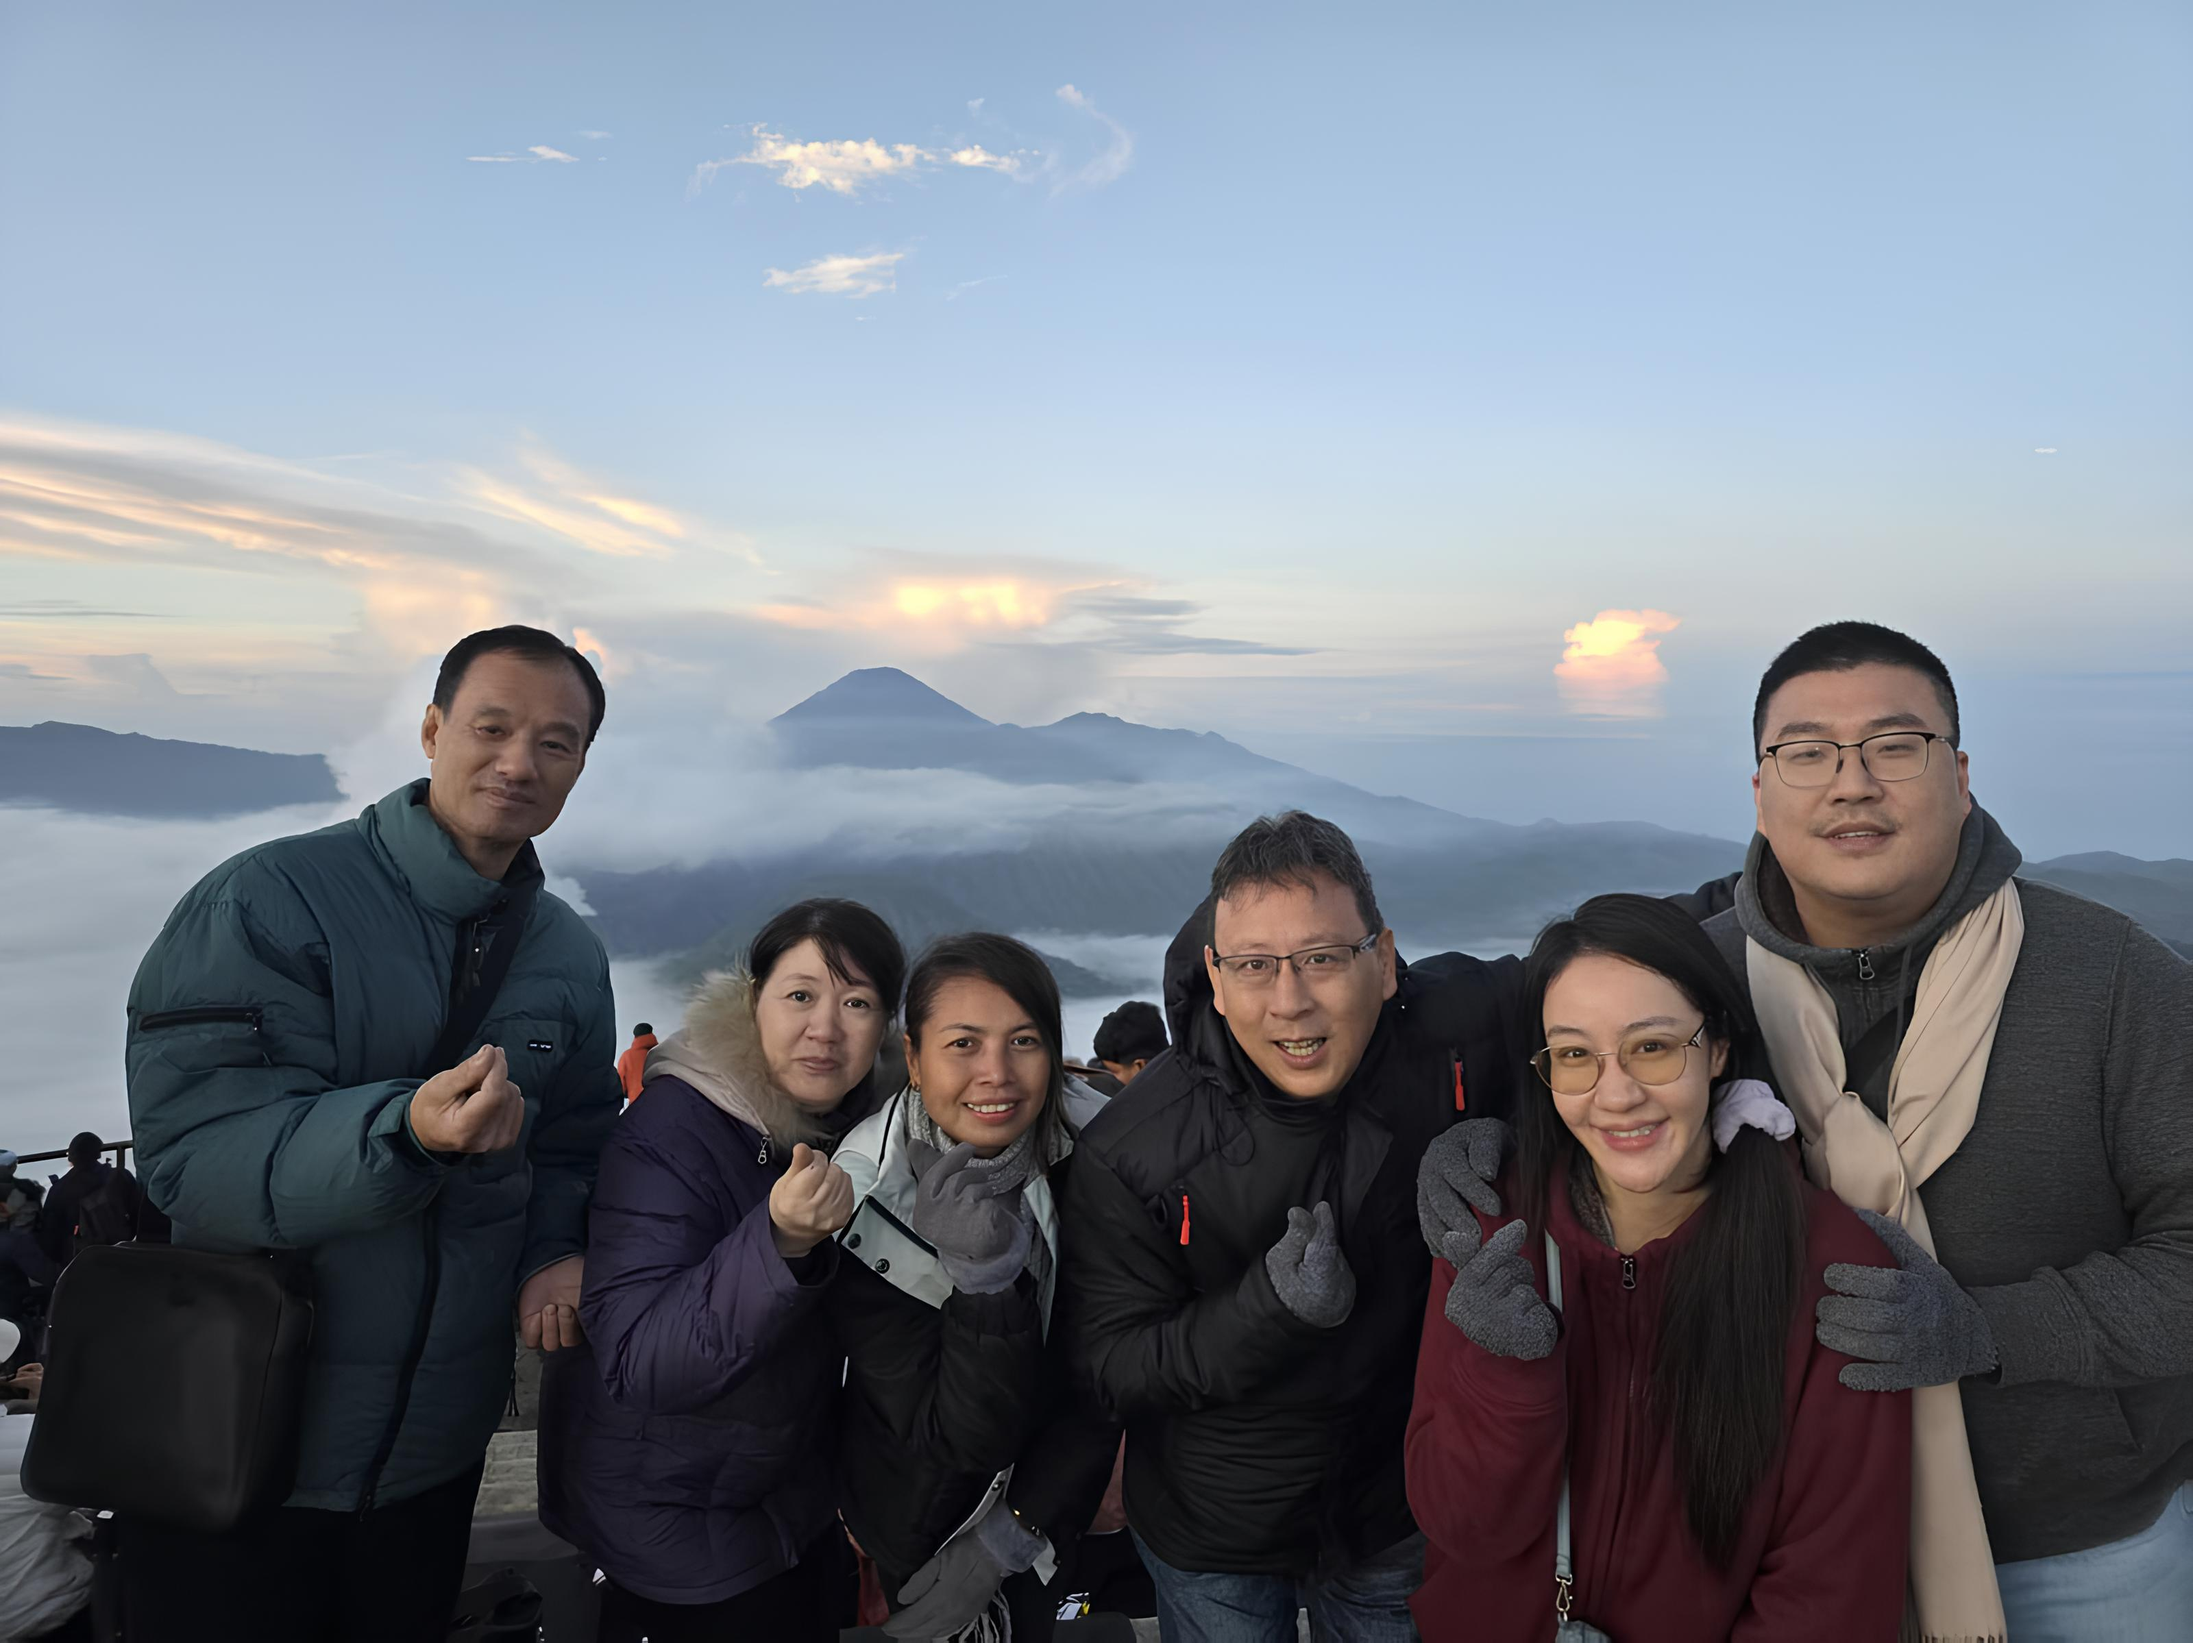
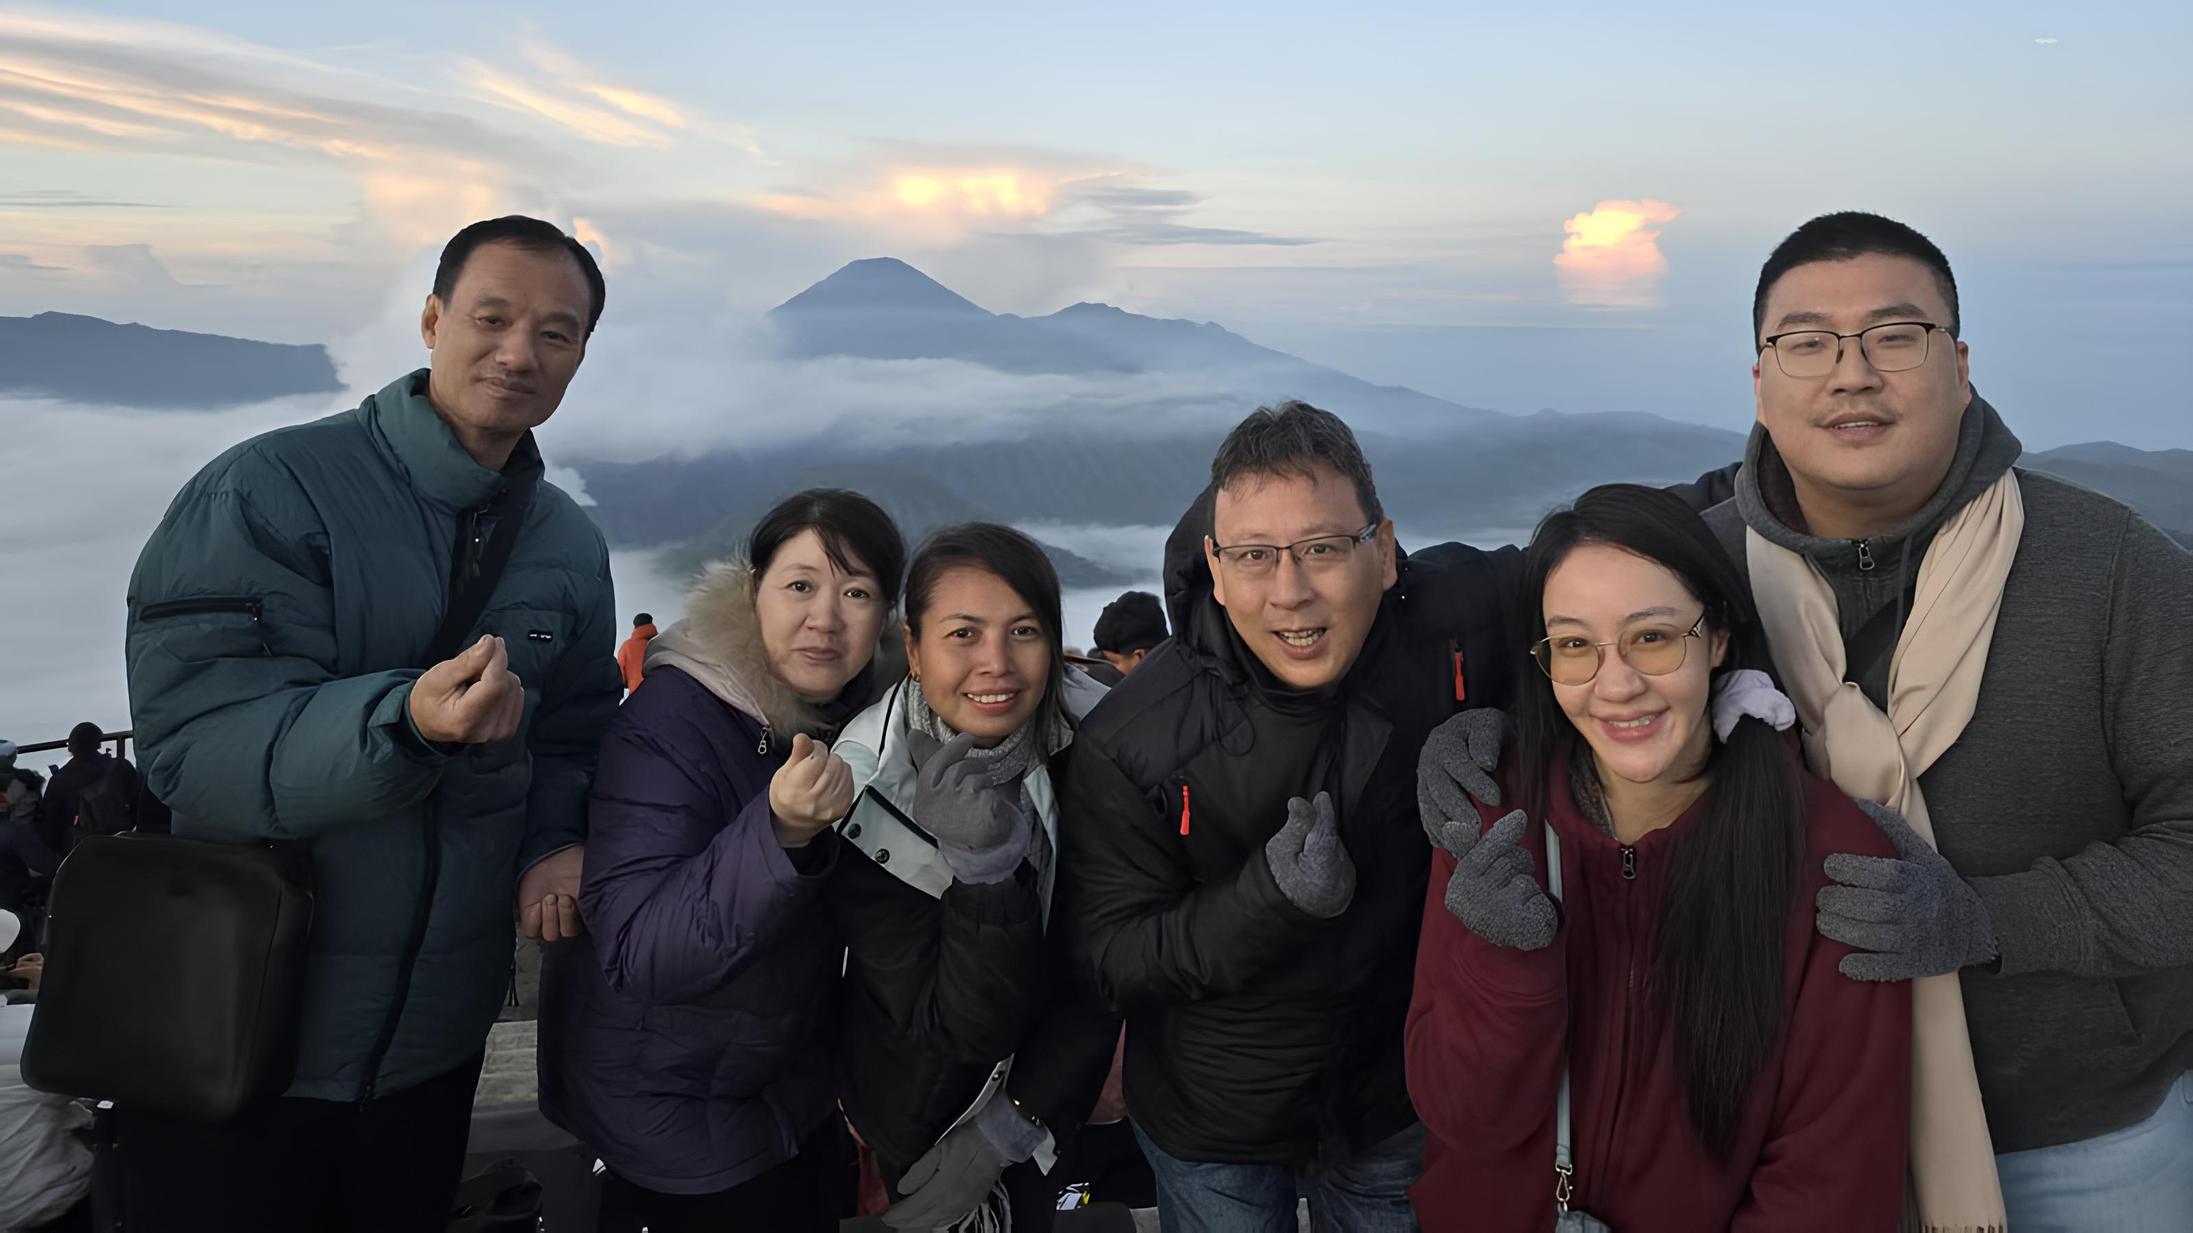
style: adjust about section hero image position
- Change image object position to -50px from top
- Improve visual composition of hero section

diff --git a/src/app/[locale]/about/_components/Section1.tsx b/src/app/[locale]/about/_components/Section1.tsx
@@ -8,10 +8,10 @@ export default function Section1() {
   return (
     <div className="relative min-h-[400px] md:min-h-[500px] lg:min-h-[600px] flex items-center -mt-16 pt-16">
       <Image 
-        src="https://picsum.photos/1920/1080?random=1"
+        src="/aboutus/aboutus.jpg"
         alt={t("imageAlt", { defaultValue: "About Neomi" })}
         fill
-        className="object-cover -z-10"
+        className="object-cover object-[center_-50px] -z-10"
         priority
       />
       <div className="hero-overlay absolute inset-0 bg-neutral/60"></div>

diff --git a/src/app/[locale]/gallery/_components/Section1.tsx b/src/app/[locale]/gallery/_components/Section1.tsx
@@ -8,7 +8,7 @@ export default function Section1() {
   return (
     <div className="relative min-h-[400px] md:min-h-[500px] lg:min-h-[600px] flex items-center -mt-16 pt-16">
       <Image 
-        src="https://picsum.photos/1920/1080?random=2"
+        src="/gallery/gallery.jpg"
         alt={t("imageAlt", { defaultValue: "Gallery Neomi" })}
         fill
         className="object-cover -z-10"
